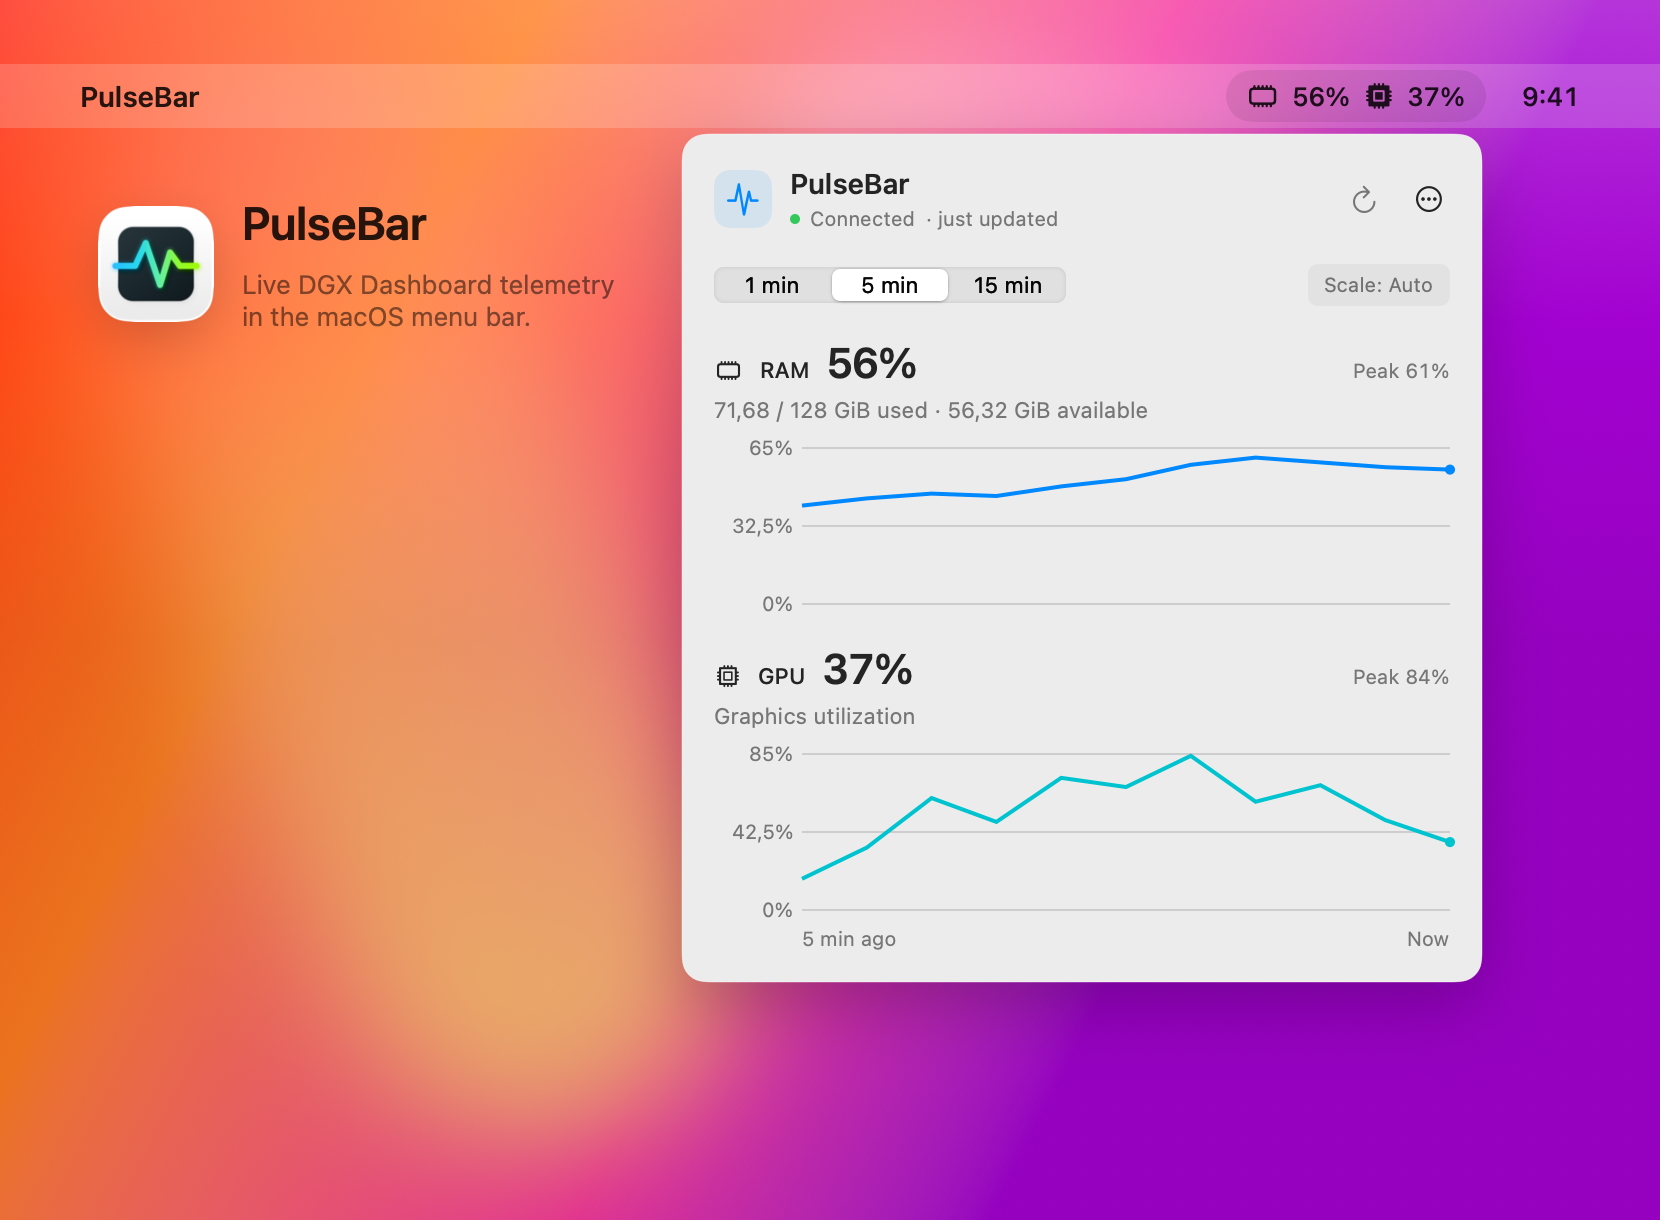
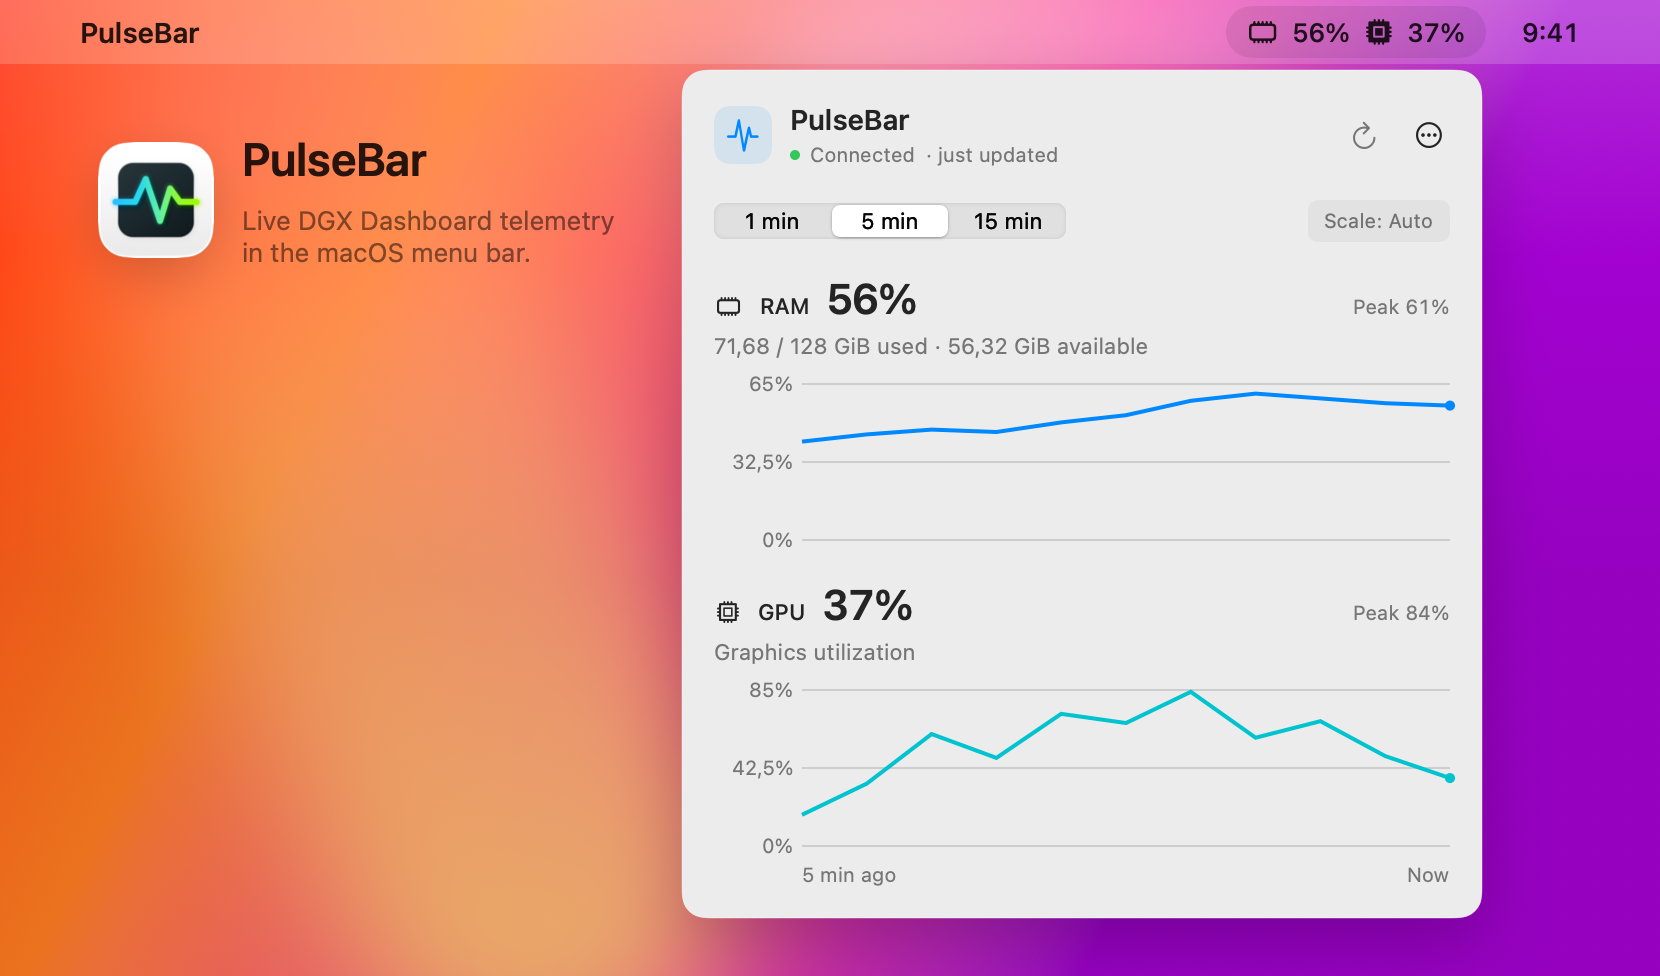
Crop README preview to align the menu bar with the top edge

diff --git a/Sources/PulseBarTools/main.swift b/Sources/PulseBarTools/main.swift
@@ -939,6 +939,7 @@ private struct ReadmeMenuPreview: View {
     private let cardWidth: CGFloat = 830
     private let cardHeight: CGFloat = 610
     private let safeInset: CGFloat = 40
+    private let menuBarTopInset: CGFloat = 32
 
     let appIcon: NSImage?
     let panel: NSImage
@@ -960,9 +961,13 @@ private struct ReadmeMenuPreview: View {
                 }
                 .padding(.horizontal, safeInset)
             }
-            .padding(.top, 32)
+            .padding(.top, menuBarTopInset)
         }
         .frame(width: cardWidth, height: cardHeight)
+        // Crop the composition while preserving the desktop artwork and branding.
+        .offset(y: -menuBarTopInset)
+        .frame(width: cardWidth, height: panel.size.height + 64, alignment: .top)
+        .clipped()
     }
 
     private var titleBlock: some View {
